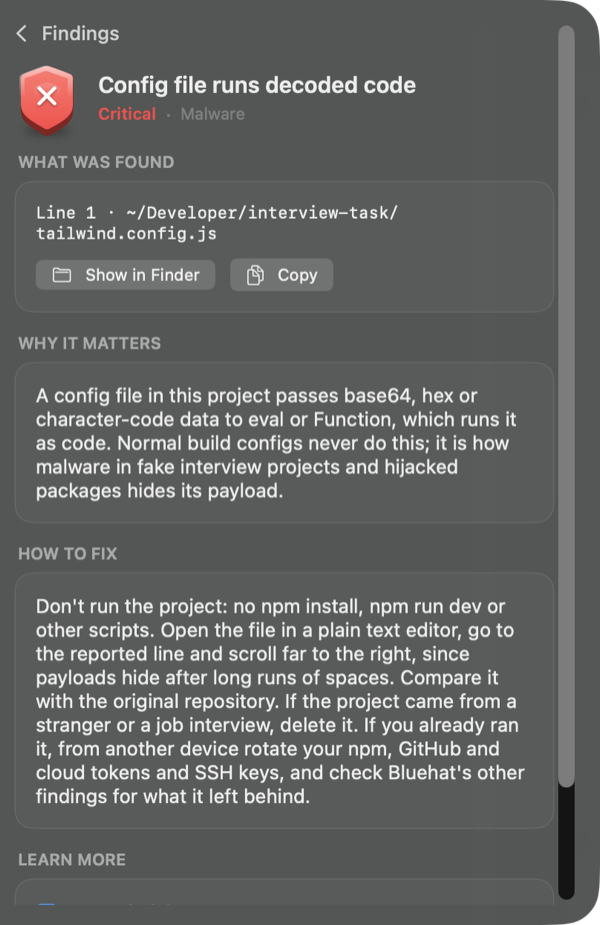
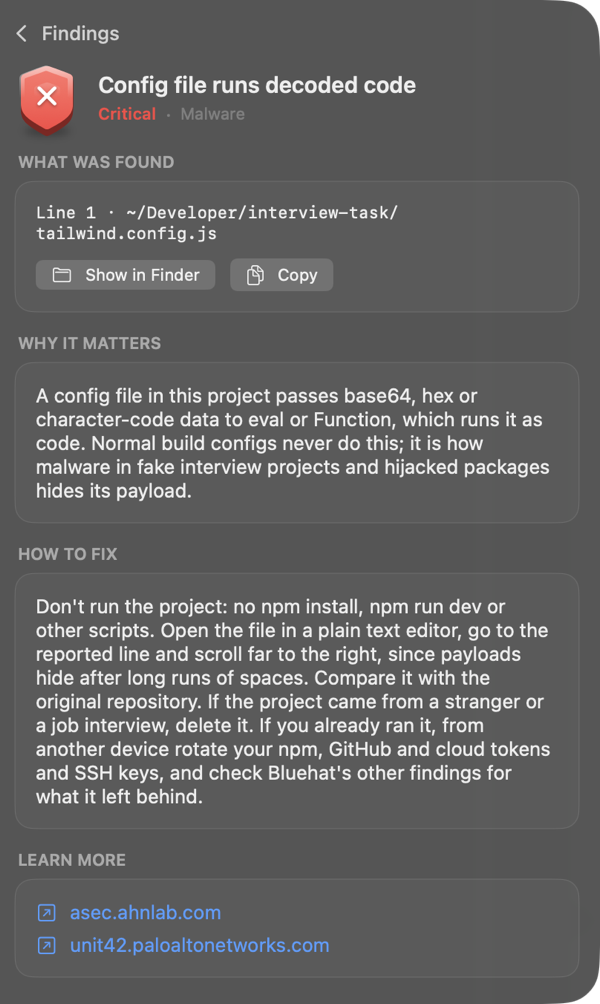
feat(ui): thin overlay scroll bars and fresh README screenshots
Scroll views in the panel and Settings use overlay scrollers even when
the system shows scroll bars always, inset from the card's corners.

Changed region(s): [[0.03, 0.0303, 0.96, 0.9686], [0.99, 0.9686, 1.0, 0.9989], [0.99, 0.0, 1.0, 0.0303]]

diff --git a/Sources/Bluehat/Views/ScanPanel.swift b/Sources/Bluehat/Views/ScanPanel.swift
@@ -46,6 +46,7 @@ struct ScanPanel: View {
                         store.settings.ignore(selectedFinding)
                         selectedFindingID = nil
                     }
+                    .overlayScrollers()
                 }
                 .scrollClipDisabled()
                 .id(selectedFinding.id)
@@ -184,7 +185,7 @@ struct ScanPanel: View {
         switch store.phase {
         case .idle: return "Checks for remote code execution, malware, worms, backdoors and weak settings."
         case .loadingRules: return "Downloading rules and checking their signature."
-        case .scanning: return "Checking \(store.currentArea?.title.lowercased() ?? "results")…"
+        case .scanning: return "Checking \(store.currentArea?.inlineTitle ?? "results")…"
         case .finished:
             let time = store.lastScanAt?.formatted(date: .omitted, time: .shortened) ?? ""
             let duration = store.scanDuration?.formatted(.units(allowed: [.seconds, .milliseconds], width: .narrow, maximumUnitCount: 1)) ?? ""
@@ -209,10 +210,14 @@ struct ScanPanel: View {
     private var findingsSection: some View {
         VStack(alignment: .leading, spacing: Metrics.spaceSmall) {
             sectionTitle("Findings")
-            ScrollView { findingRows }
-                .padding(.horizontal, Metrics.cardPadding)
-                .frame(maxWidth: .infinity, maxHeight: .infinity)
-                .card()
+            ScrollView {
+                findingRows
+                    .padding(.horizontal, Metrics.cardPadding)
+                    .overlayScrollers()
+            }
+            .contentMargins(.vertical, Metrics.scrollIndicatorInset, for: .scrollIndicators)
+            .frame(maxWidth: .infinity, maxHeight: .infinity)
+            .card()
         }
     }
 

diff --git a/Sources/Bluehat/Utilities/OverlayScrollers.swift b/Sources/Bluehat/Utilities/OverlayScrollers.swift
@@ -1,0 +1,42 @@
+import AppKit
+import SwiftUI
+
+extension View {
+    /// Draws the enclosing scroll view's scrollers as thin overlays that show only while scrolling, whatever the system "Show scroll bars" setting. Apply it to the content inside a `ScrollView`, or to a `Section` inside a `Form`.
+    func overlayScrollers() -> some View {
+        background(OverlayScrollerStyle())
+    }
+}
+
+private struct OverlayScrollerStyle: NSViewRepresentable {
+    func makeNSView(context: Context) -> OverlayScrollerStyleView {
+        OverlayScrollerStyleView()
+    }
+
+    func updateNSView(_ nsView: OverlayScrollerStyleView, context: Context) {}
+}
+
+private final class OverlayScrollerStyleView: NSView {
+    override init(frame: NSRect) {
+        super.init(frame: frame)
+        NotificationCenter.default.addObserver(self, selector: #selector(preferredStyleChanged), name: NSScroller.preferredScrollerStyleDidChangeNotification, object: nil)
+    }
+
+    required init?(coder: NSCoder) {
+        nil
+    }
+
+    override func viewDidMoveToWindow() {
+        super.viewDidMoveToWindow()
+        enclosingScrollView?.scrollerStyle = .overlay
+    }
+
+    override func hitTest(_ point: NSPoint) -> NSView? {
+        nil
+    }
+
+    @objc private func preferredStyleChanged() {
+        // AppKit resets every scroll view to the new preferred style in its own observer, which can run after this one.
+        DispatchQueue.main.async { self.enclosingScrollView?.scrollerStyle = .overlay }
+    }
+}

diff --git a/Sources/Bluehat/Views/AboutSettingsTab.swift b/Sources/Bluehat/Views/AboutSettingsTab.swift
@@ -22,6 +22,7 @@ struct AboutSettingsTab: View {
                 }
                 .frame(maxWidth: .infinity)
             }
+            .overlayScrollers()
             Section("Rules") {
                 LabeledContent("Source") {
                     Link(String(RuleFeed.repositoryURL.path().dropFirst()), destination: RuleFeed.repositoryURL)

diff --git a/Sources/Bluehat/Theme/Metrics.swift b/Sources/Bluehat/Theme/Metrics.swift
@@ -9,6 +9,7 @@ enum Metrics {
     static let cardPadding: CGFloat = 14
     static let cardMinimumRadius: CGFloat = 12
     static let cardStrokeWidth: CGFloat = 0.5
+    static let scrollIndicatorInset: CGFloat = 6
     static let spaceTight: CGFloat = 2
     static let spaceSmall: CGFloat = 6
     static let spaceMedium: CGFloat = 10

diff --git a/Sources/Bluehat/Views/ProjectsSettingsTab.swift b/Sources/Bluehat/Views/ProjectsSettingsTab.swift
@@ -35,6 +35,7 @@ struct ProjectsSettingsTab: View {
                     .font(Typography.caption)
                     .foregroundStyle(Palette.secondaryText)
             }
+            .overlayScrollers()
             Section {
                 Button("Add Folder…", action: chooseFolders)
             }

diff --git a/Sources/Bluehat/Views/HistorySettingsTab.swift b/Sources/Bluehat/Views/HistorySettingsTab.swift
@@ -19,6 +19,7 @@ struct HistorySettingsTab: View {
                     .font(Typography.caption)
                     .foregroundStyle(Palette.secondaryText)
             }
+            .overlayScrollers()
         }
         .formStyle(.grouped)
     }

diff --git a/Sources/Bluehat/Views/IgnoredSettingsTab.swift b/Sources/Bluehat/Views/IgnoredSettingsTab.swift
@@ -34,6 +34,7 @@ struct IgnoredSettingsTab: View {
                     .font(Typography.caption)
                     .foregroundStyle(Palette.secondaryText)
             }
+            .overlayScrollers()
         }
         .formStyle(.grouped)
     }

diff --git a/README.md b/README.md
@@ -29,7 +29,7 @@
 </p>
 
 <p align="center">
-  <img src="assets/readme/hero.png" width="760" alt="Bluehat panel after a scan: the scan ring with 6 issues, the 16 check areas, and a findings list with a shell startup line, a vulnerable Python, a hijacked chalk release and code hidden in tailwind.config.js">
+  <img src="assets/readme/hero.png" width="760" alt="Bluehat panel after a scan: the scan ring with 7 issues, the 20 check areas, and a findings list with a shell startup line, a vulnerable Python, a hijacked chalk release and code hidden in tailwind.config.js">
 </p>
 
 ---
@@ -84,7 +84,7 @@ run anything.
 
 | | |
 | --- | --- |
-| <img src="assets/readme/menubar.png" width="50" alt="Menu bar shield with 6 issues"> | **Menu bar count**: the shield shows scan progress, then the number of open issues. |
+| <img src="assets/readme/menubar.png" width="50" alt="Menu bar shield with 7 issues"> | **Menu bar count**: the shield shows scan progress, then the number of open issues. |
 | 🪟 **Floating panel** | One click on the shield opens the scan panel, which stays above other windows until you click again. |
 | 🔍 **Finding details** | What was found, why it matters, how to fix it, and source links for every finding. |
 | ✅ **Signed rules, daily feed** | Hand-written rules and a daily malware fingerprint feed, both verified with Ed25519 before use. |

diff --git a/.agents/project-rules.md b/.agents/project-rules.md
@@ -18,7 +18,7 @@ Sources/
 │   ├── MenuBar/                 # AppKit glue: MenuBarController (status item, panel level), MenuBarPanel (floating NSPanel hosting ScanPanel)
 │   ├── Views/                   # one SwiftUI view per file; <Type>+Presentation.swift for display text of core types
 │   ├── Stores/                  # @Observable state: ScanStore, SettingsStore
-│   ├── Utilities/               # shared view helpers with doc comments: card(), counted()
+│   ├── Utilities/               # shared view helpers with doc comments: card(), counted(), overlayScrollers()
 │   └── Theme/                   # design tokens: Palette, Metrics, Typography, Motion
 └── bluehat-sign/                # CLI that validates and signs rules.json
 Tests/BluehatCoreTests/          # mirrors Sources/BluehatCore paths
